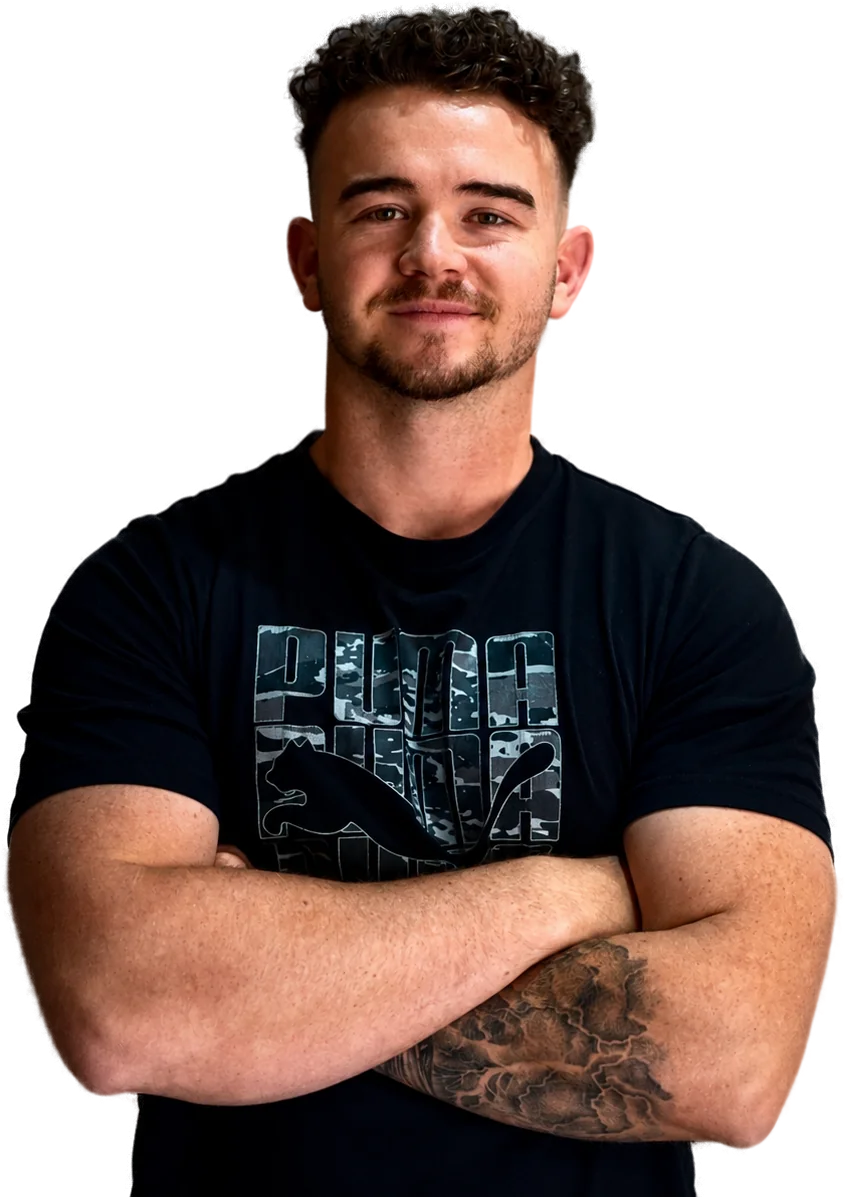
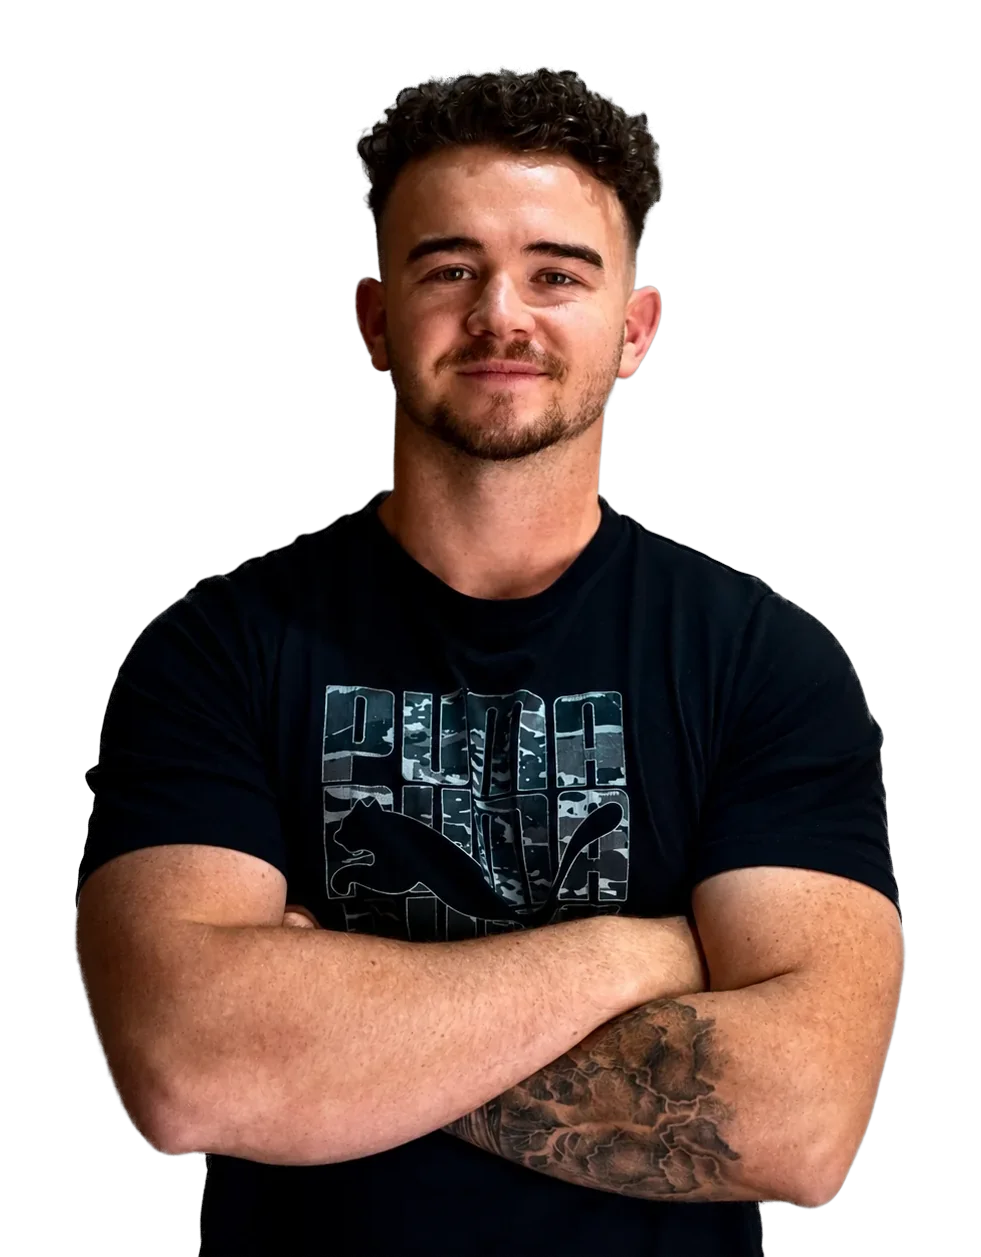
Production polish: portrait fit + local-SEO signals
- Luke's new portrait padded with transparent margins so the
  arms-crossed pose is never clipped by the Meet Luke card or hero
- og:image:alt added (social share accessibility)
- HealthClub JSON-LD enriched for local ranking: geo coordinates,
  opening hours, areaServed (Pretoria / Gauteng / online)

diff --git a/index.html b/index.html
@@ -35,6 +35,7 @@
 <meta property="og:image" content="https://lukesgoodlifestyle.com/assets/og-image.jpg">
 <meta property="og:image:width" content="1200">
 <meta property="og:image:height" content="630">
+<meta property="og:image:alt" content="Luke's Good Lifestyle — Train Hard. Live Well. Be Your Best.">
 <meta property="og:url" content="https://lukesgoodlifestyle.com/">
 <meta property="og:type" content="website">
 <meta property="og:site_name" content="Luke's Good Lifestyle">
@@ -66,7 +67,13 @@
       "telephone": "+27730283066",
       "email": "ripponluke@gmail.com",
       "priceRange": "R1000–R2100 per month",
-      "address": { "@type": "PostalAddress", "streetAddress": "Planet Fitness Lynnwood Bridge", "addressLocality": "Pretoria", "addressRegion": "Gauteng", "addressCountry": "ZA" },
+      "address": { "@type": "PostalAddress", "streetAddress": "Planet Fitness Lynnwood Bridge, Lynnwood Road", "addressLocality": "Pretoria", "addressRegion": "Gauteng", "addressCountry": "ZA" },
+      "geo": { "@type": "GeoCoordinates", "latitude": -25.7626, "longitude": 28.2775 },
+      "openingHoursSpecification": [
+        { "@type": "OpeningHoursSpecification", "dayOfWeek": ["Monday","Tuesday","Wednesday","Thursday","Friday"], "opens": "05:00", "closes": "20:00" },
+        { "@type": "OpeningHoursSpecification", "dayOfWeek": ["Saturday"], "opens": "06:00", "closes": "14:00" }
+      ],
+      "areaServed": ["Pretoria", "Gauteng", "South Africa (online coaching)"],
       "sameAs": ["https://www.instagram.com/lukesgoodlifestyle"]
     },
     {
